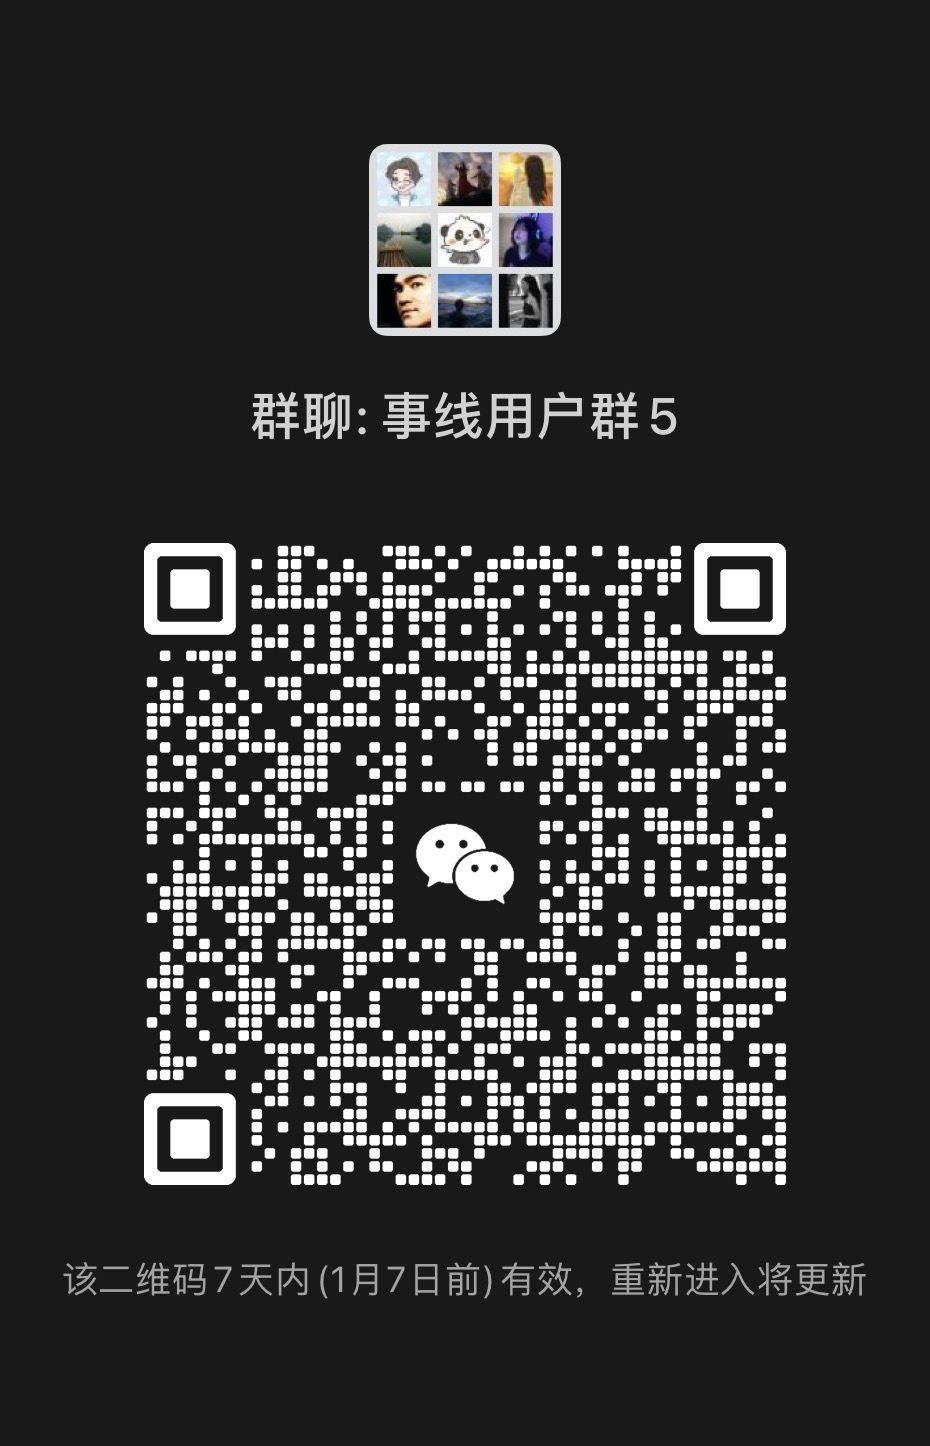
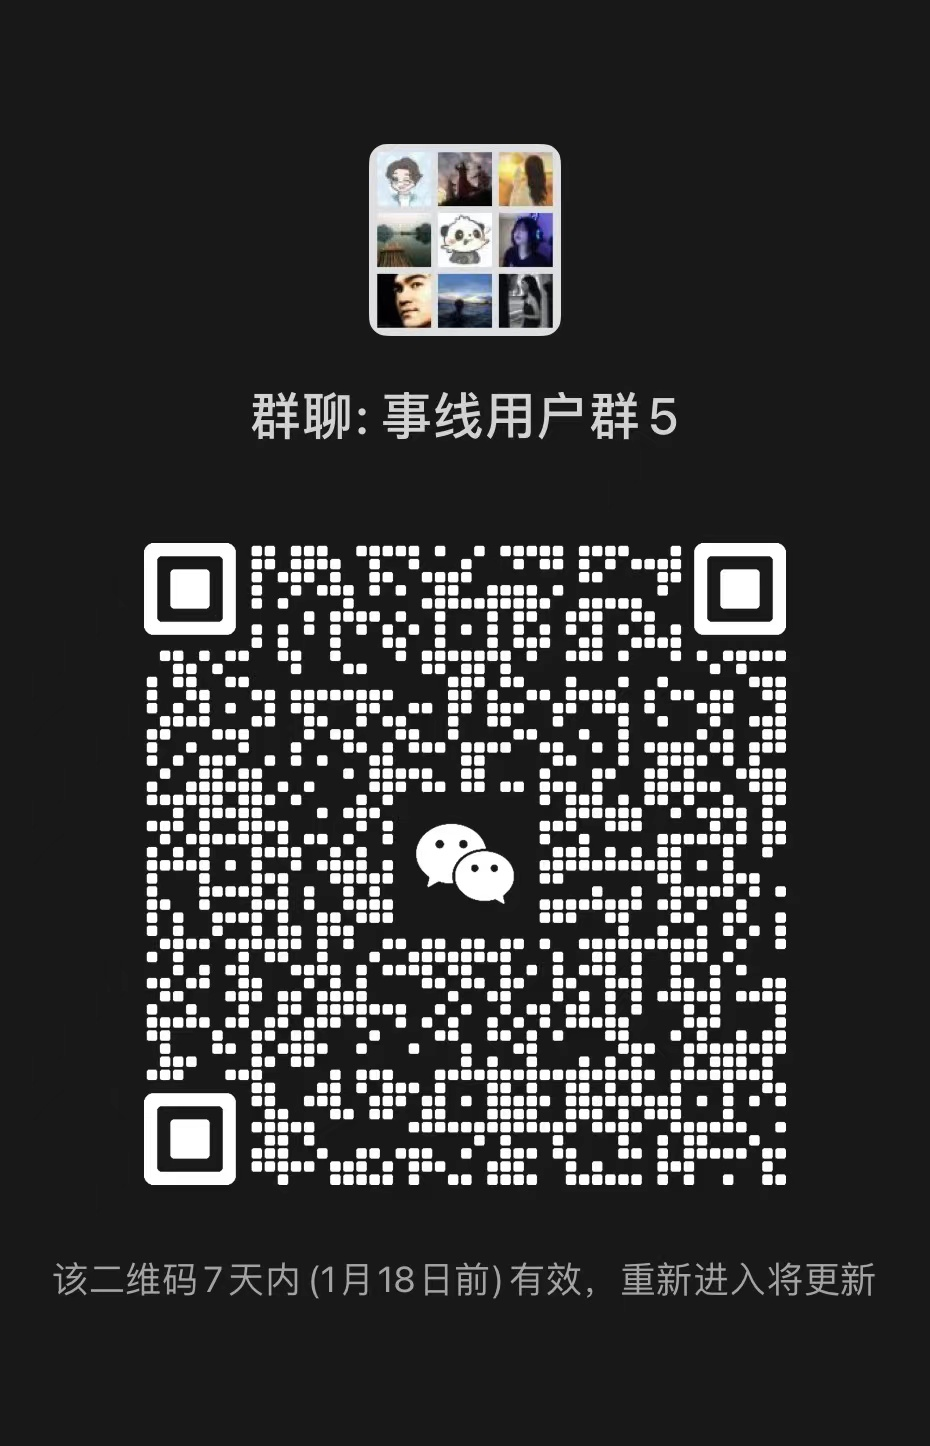
update

Changed region(s): [[0.1559, 0.3734, 0.8419, 0.8402], [0.0624, 0.8714, 0.6237, 0.9025], [0.6548, 0.8714, 0.9355, 0.9025]]

diff --git a/docs/01.pages/03.共建/002.用户群.md b/docs/01.pages/03.共建/002.用户群.md
@@ -9,7 +9,7 @@ permalink: /pages/16d8ae/
 
 <img src="/img/vx.jpg" class="no-zoom" style="width:15rem;margin: 10px;border-radius: 15px;margin: 2rem 0;box-shadow: 0 0px 20px rgb(0 0 0 / 20%);">
 
-#### （1月7日失效）
+#### （1月18日失效）
 
 
 :::
